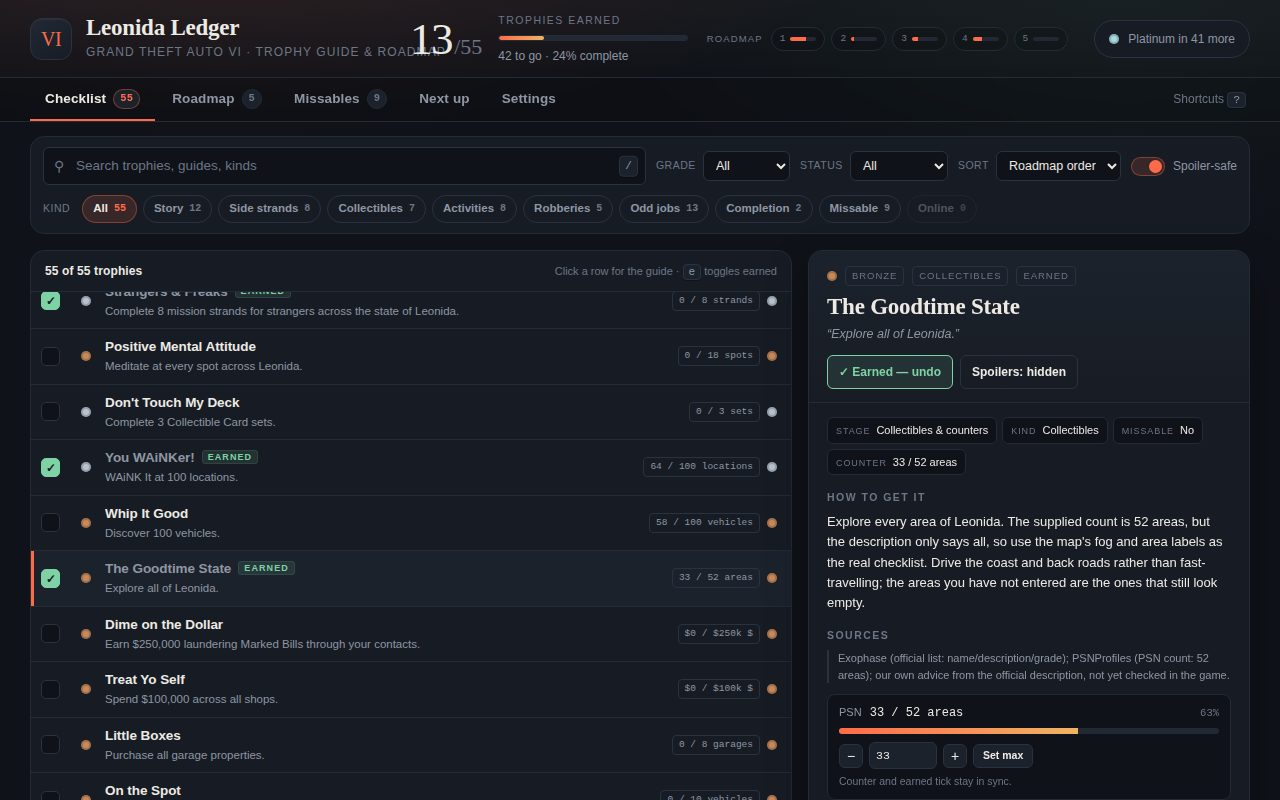
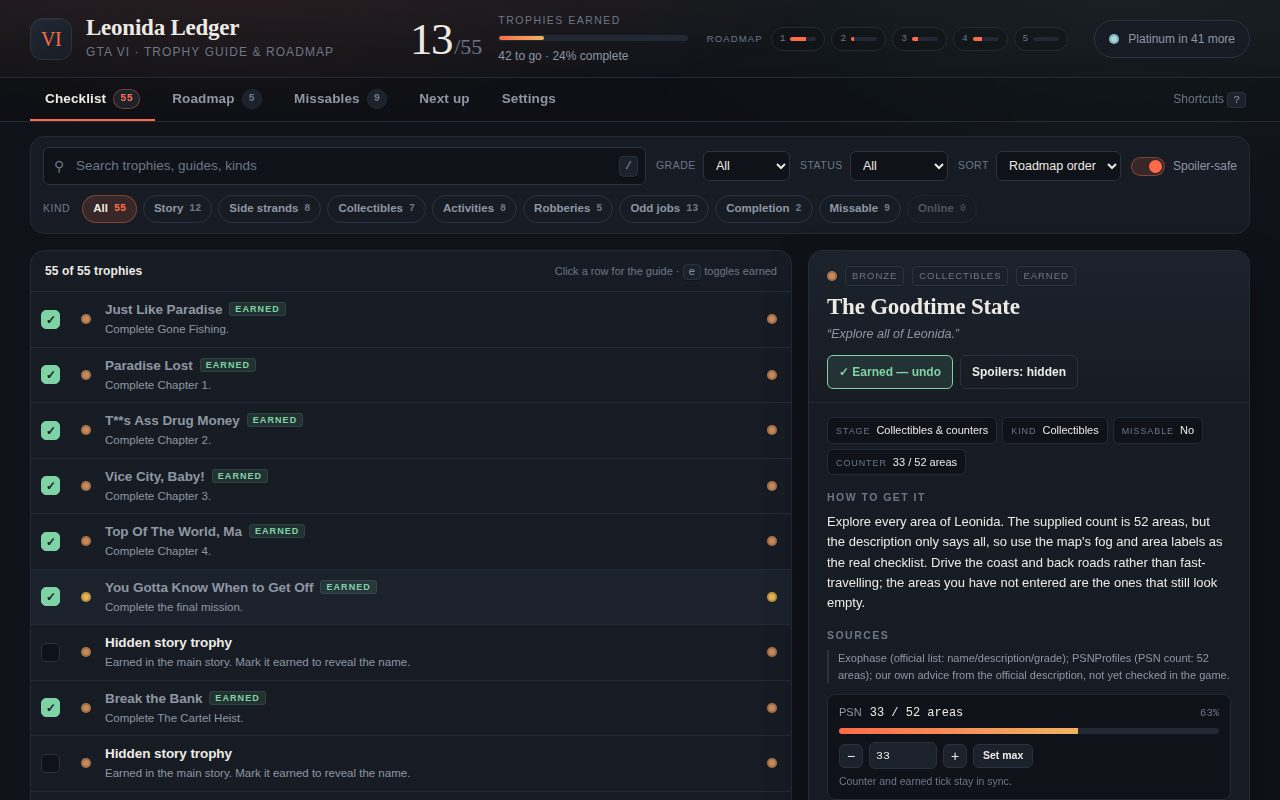
trophy guide: fix header overlap + row name/desc gap, re-shoot

diff --git a/app/style.css b/app/style.css
@@ -138,6 +138,8 @@ a { color: var(--accent); }
   text-transform: uppercase;
   color: var(--muted-2);
   white-space: nowrap;
+  overflow: hidden;
+  text-overflow: ellipsis;
 }
 
 .headline { display: flex; align-items: center; gap: 16px; }
@@ -769,6 +771,8 @@ html[data-theme='parchment'] .btn-primary { color: #fff8f0; }
 .qrow-sub { font-size: 11px; color: var(--muted-2); white-space: nowrap; overflow: hidden; text-overflow: ellipsis; }
 .qrow-why { font-size: 10px; letter-spacing: 0.08em; text-transform: uppercase; color: var(--warn); white-space: nowrap; }
 .qrow-why.is-clean { color: var(--muted-2); }
+
+.srow-desc, .qrow-sub { margin-left: 8px; }
 
 .side-card {
   border: 1px solid var(--line-soft);

diff --git a/app/index.html b/app/index.html
@@ -15,7 +15,7 @@
     <span class="brand-mark" aria-hidden="true">VI</span>
     <div class="brand-text">
       <h1>Leonida Ledger</h1>
-      <p>Grand Theft Auto VI &middot; trophy guide &amp; roadmap</p>
+      <p>GTA VI &middot; Trophy guide &amp; roadmap</p>
     </div>
   </div>
 
